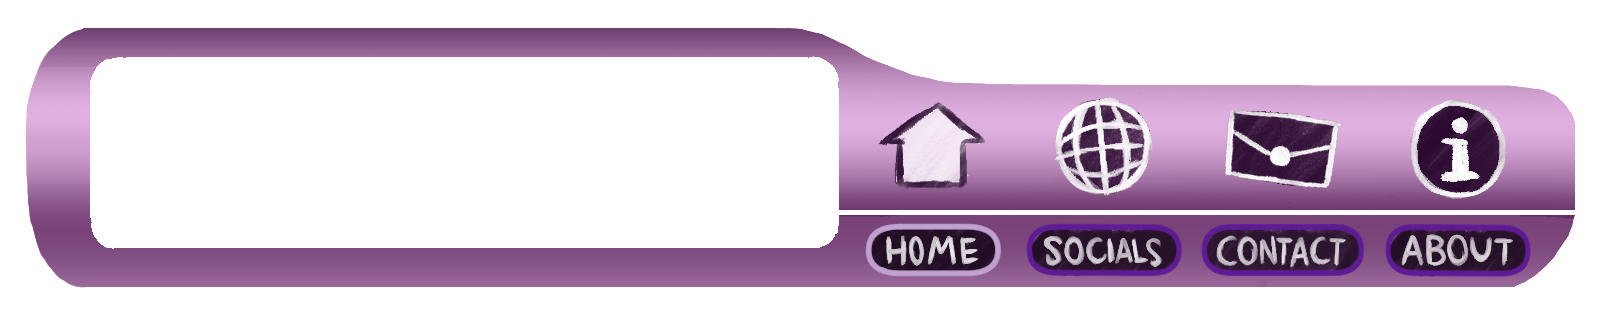
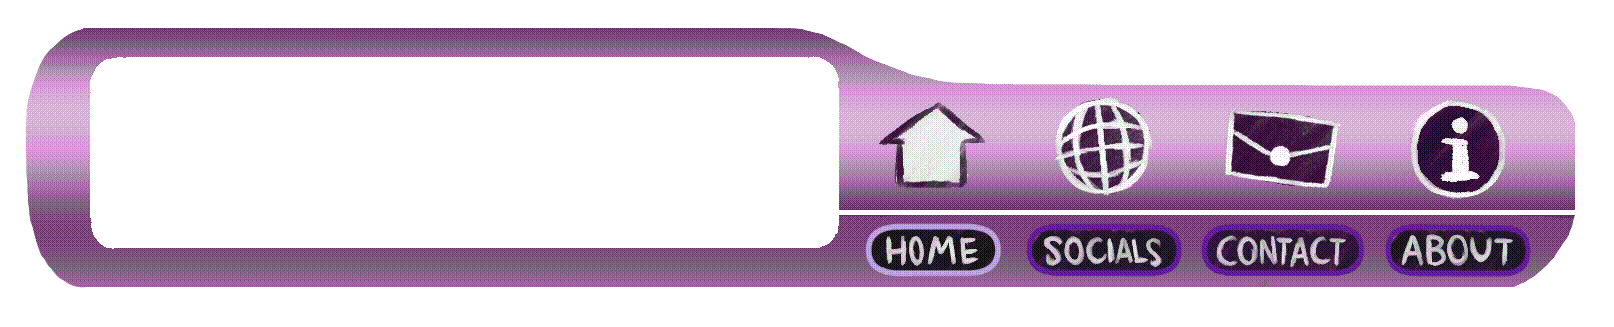
Dithering !!

Changed region(s): [[0.0, 0.0917, 0.9913, 0.8869]]

diff --git a/index.html b/index.html
@@ -1,5 +1,5 @@
 <html lang="en">
-	<head><title>WELCOME TO CYBERHELL :(</title>
+	<head><title>WELCOME TO CYBERHELL :)</title>
 		<link rel="icon" href="o_0_favicon.png">
 			<style>
 				body
@@ -25,7 +25,7 @@
 		.image1 {
 			position: relative; top: 0; left: 0; z-index: 9}
 		.image2 {
-			position: absolute; top: 35px; left: 150px;}
+			position: absolute; top: 35px; left: 160px;}
 			</style>
 			</div>
 
